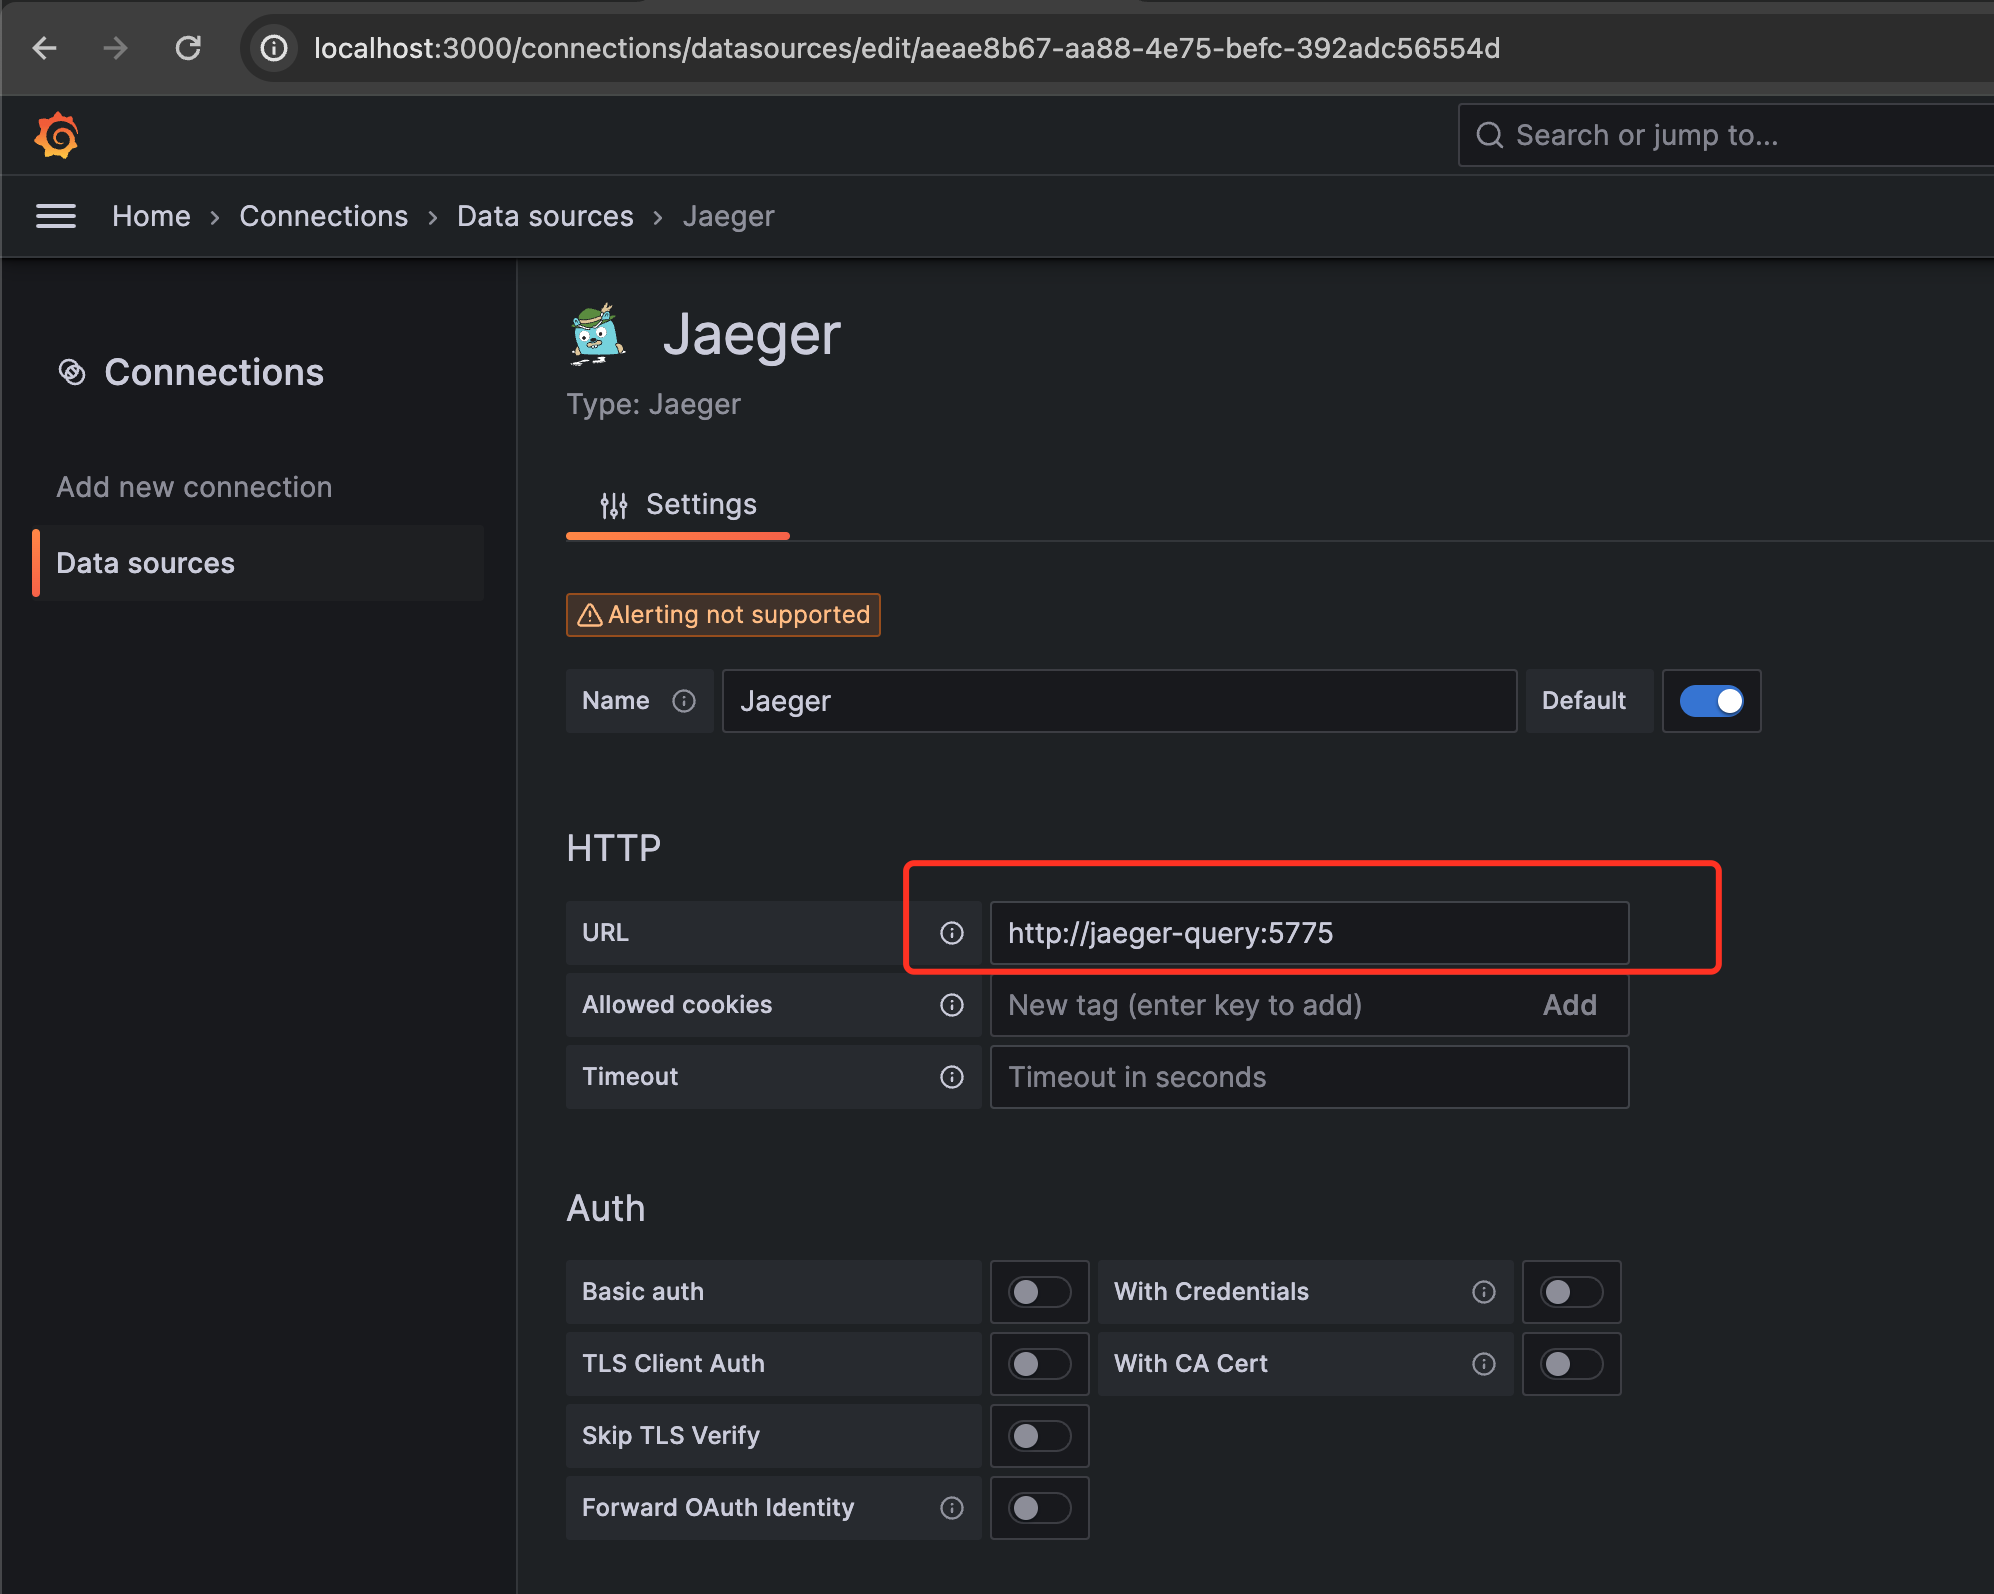
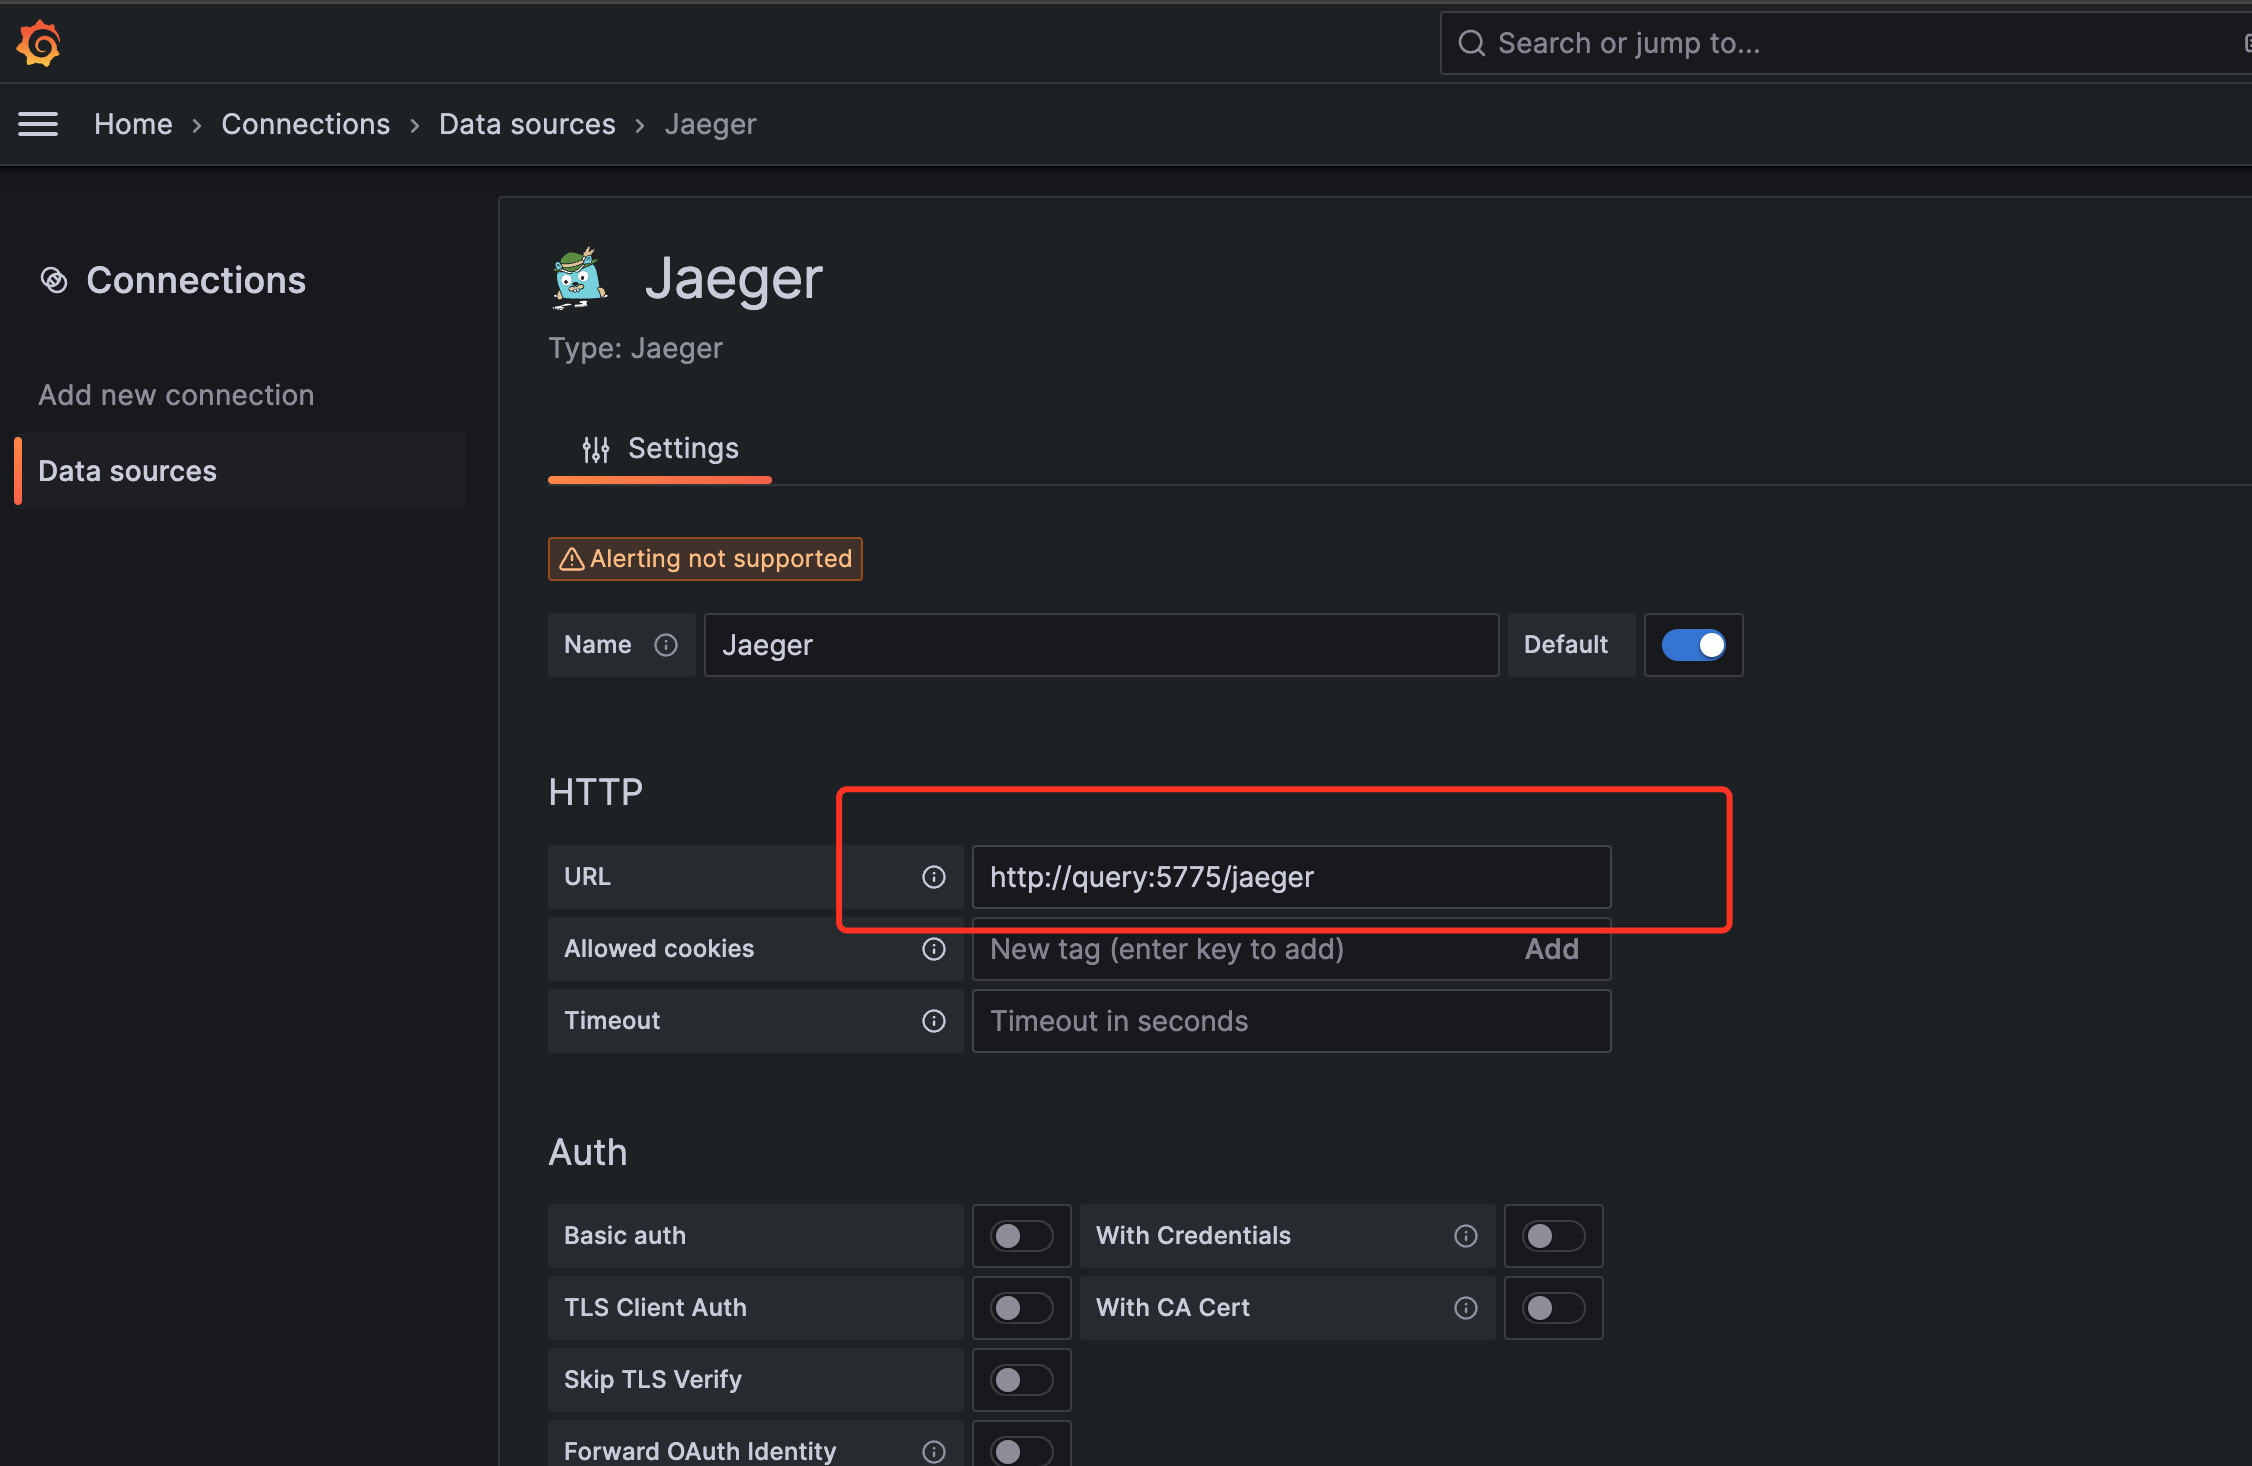
move jaeger api (#39)

diff --git a/src/Mocha.Query/Jaeger/Controllers/JaegerTraceController.cs b/src/Mocha.Query/Jaeger/Controllers/JaegerTraceController.cs
@@ -1,0 +1,123 @@
+using System.Net;
+using System.Text.RegularExpressions;
+using Microsoft.AspNetCore.Mvc;
+using Mocha.Core.Extensions;
+using Mocha.Core.Storage.Jaeger;
+using Mocha.Core.Storage.Jaeger.Trace;
+using Mocha.Query.Jaeger.DTOs;
+
+namespace Mocha.Query.Jaeger.Controllers;
+
+[Route("/jaeger/api")]
+public class JaegerTraceController(IJaegerSpanReader spanReader) : Controller
+{
+    [HttpGet("services")]
+    public async Task<JaegerResponse<IEnumerable<string>>> GetSeries()
+    {
+        return new(await spanReader.GetServicesAsync());
+    }
+
+    [HttpGet("services/{serviceName}/operations")]
+    public async Task<JaegerResponse<IEnumerable<string>>> GetOperations(string serviceName)
+    {
+        return new(await spanReader.GetOperationsAsync(serviceName));
+    }
+
+    [HttpGet("traces")]
+    public async Task<JaegerResponse<IEnumerable<JaegerTrace>>> FindTraces([FromQuery] FindTracesRequest request)
+    {
+        static ulong? ParseAsNanoseconds(string? input)
+        {
+            if (string.IsNullOrWhiteSpace(input))
+            {
+                return null;
+            }
+
+            var m = Regex.Match(input,
+                @"^((?<days>\d+)d)?((?<hours>\d+)h)?((?<minutes>\d+)m)?((?<seconds>\d+)s)?((?<milliseconds>\d+)ms)?((?<microseconds>\d+)μs)?$",
+                RegexOptions.ExplicitCapture
+                | RegexOptions.Compiled
+                | RegexOptions.CultureInvariant
+                | RegexOptions.RightToLeft);
+
+            if (!m.Success)
+            {
+                return null;
+            }
+
+            var days = m.Groups["days"].Success ? long.Parse(m.Groups["days"].Value) : 0;
+            var hours = m.Groups["hours"].Success ? long.Parse(m.Groups["hours"].Value) : 0;
+            var minutes = m.Groups["minutes"].Success ? long.Parse(m.Groups["minutes"].Value) : 0;
+            var seconds = m.Groups["seconds"].Success ? long.Parse(m.Groups["seconds"].Value) : 0;
+            var milliseconds = m.Groups["milliseconds"].Success ? long.Parse(m.Groups["milliseconds"].Value) : 0;
+            var microseconds = m.Groups["microseconds"].Success ? long.Parse(m.Groups["microseconds"].Value) : 0;
+
+            return
+                (ulong)(((days * 24 * 60 * 60 + hours * 60 * 60 + minutes * 60 + seconds) * 1000 + milliseconds)
+                    * 1000 + microseconds) * 1000;
+        }
+
+        var startTimeMin = request.Start * 1000;
+
+
+        var startTimeMax = request.End * 1000;
+
+        var lookBack = ParseAsNanoseconds(request.LookBack);
+
+        if (lookBack.HasValue)
+        {
+            var now = DateTimeOffset.Now.ToUnixTimeNanoseconds();
+            startTimeMin = now - lookBack.Value;
+            startTimeMax = now;
+        }
+
+        IEnumerable<JaegerTrace> traces;
+
+        if (request.TraceID?.Any() ?? false)
+        {
+            traces = await spanReader.FindTracesAsync(request.TraceID, startTimeMin, startTimeMax);
+        }
+        else
+        {
+            traces = await spanReader.FindTracesAsync(new JaegerTraceQueryParameters
+            {
+                ServiceName = request.Service,
+                OperationName = request.Operation,
+                Tags = (request.Tags ?? "{}").FromJson<Dictionary<string, object>>()!,
+                StartTimeMinUnixNano = startTimeMin,
+                StartTimeMaxUnixNano = startTimeMax,
+                DurationMinNanoseconds =
+                    string.IsNullOrWhiteSpace(request.MinDuration)
+                        ? null
+                        : ParseAsNanoseconds(request.MinDuration)!,
+                DurationMaxNanoseconds =
+                    string.IsNullOrWhiteSpace(request.MaxDuration)
+                        ? null
+                        : ParseAsNanoseconds(request.MaxDuration)!,
+                NumTraces = request.Limit
+            });
+        }
+
+        JaegerResponseError? error = null;
+        if (traces.Any() is false)
+        {
+            error = new JaegerResponseError { Code = (int)HttpStatusCode.NotFound, Message = "trace not found" };
+        }
+
+        return new JaegerResponse<IEnumerable<JaegerTrace>>(traces) { Error = error };
+    }
+
+    [HttpGet("traces/{traceID}")]
+    public async Task<JaegerResponse<IEnumerable<JaegerTrace>>> GetTrace(string traceID)
+    {
+        var traces = await spanReader.FindTracesAsync([traceID]);
+
+        JaegerResponseError? error = null;
+        if (traces.Any() is false)
+        {
+            error = new JaegerResponseError { Code = (int)HttpStatusCode.NotFound, Message = "trace not found" };
+        }
+
+        return new JaegerResponse<IEnumerable<JaegerTrace>>(traces) { Error = error };
+    }
+}

diff --git a/tests/Mocha.Storage.Tests/EntityFrameworkCore/EFJaegerSpanReaderTests.cs b/tests/Mocha.Storage.Tests/EntityFrameworkCore/EFJaegerSpanReaderTests.cs
@@ -171,6 +171,18 @@ public class EFJaegerSpanReaderTests : IDisposable
             }
         };
 
+        var efResourceAttributes = new List<EFResourceAttribute>
+        {
+            new()
+            {
+                TraceId = "TraceId1",
+                SpanId = "SpanId1",
+                Key = "service.name",
+                ValueType = EFAttributeValueType.StringValue,
+                Value = "ServiceName1"
+            }
+        };
+
         var efSpanAttributes = new List<EFSpanAttribute>
         {
             new()
@@ -286,6 +298,7 @@ public class EFJaegerSpanReaderTests : IDisposable
 
         await using var context = await _dbContextFactory.CreateDbContextAsync();
         await context.Spans.AddRangeAsync(efSpans);
+        await context.ResourceAttributes.AddRangeAsync(efResourceAttributes);
         await context.SpanAttributes.AddRangeAsync(efSpanAttributes);
         await context.SpanEvents.AddRangeAsync(efSpanEvents);
         await context.SpanEventAttributes.AddRangeAsync(efSpanEventAttributes);
@@ -310,7 +323,16 @@ public class EFJaegerSpanReaderTests : IDisposable
         };
 
         var traces = await _jaegerSpanReader.FindTracesAsync(queryParameters);
-        Assert.Single(traces);
+        var trace = traces.Single();
+        var span = trace.Spans.Single();
+        var process = trace.Processes.Single();
+
+        Assert.Equal("TraceId1", trace.TraceID);
+        Assert.Equal("SpanId1", span.SpanID);
+        Assert.Equal("SpanName1", span.OperationName);
+        Assert.Equal("ServiceName1", process.Value.ServiceName);
+        Assert.Equivalent(new JaegerTag { Key = "span.kind", Type = JaegerTagType.String, Value = "server" },
+            span.Tags.Single(t => t.Key == "span.kind"));
     }
 
     [Fact]

diff --git a/src/Mocha.Query/Program.cs b/src/Mocha.Query/Program.cs
@@ -2,7 +2,7 @@ using Microsoft.EntityFrameworkCore;
 using Mocha.Storage;
 using Mocha.Storage.EntityFrameworkCore;
 
-var builder = WebApplication.CreateBuilder(args);
+var builder = WebApplication.CreateSlimBuilder(args);
 
 // Add services to the container.
 // Learn more about configuring Swagger/OpenAPI at https://aka.ms/aspnetcore/swashbuckle

diff --git a/docs/quick-start/docker-compose/quick-start.en-US.md b/docs/quick-start/docker-compose/quick-start.en-US.md
@@ -32,7 +32,7 @@ After logging in, click the menu on the left, select Data Sources, and then clic
 Select Jaeger.
 ![](./asserts/add-jaeger-data-source-3.png)
 
-Configure the URL of the Jaeger data source as `http://jaeger-query:5775`.
+Configure the URL of the Jaeger data source as `http://query:5775/jaeger`.
 
 ![](./asserts/add-jaeger-data-source-4.png)
 

diff --git a/docs/quick-start/docker-compose/quick-start.zh-CN.md b/docs/quick-start/docker-compose/quick-start.zh-CN.md
@@ -32,7 +32,7 @@ docker-compose up -d
 选择 Jaeger。
 ![](./asserts/add-jaeger-data-source-3.png)
 
-配置 Jaeger 数据源的 URL 为 `http://jaeger-query:5775`。
+配置 Jaeger 数据源的 URL 为 `http://query:5775/jaeger`。
 ![](./asserts/add-jaeger-data-source-4.png)
 
 点击 Save & Test，如果显示如下信息，则说明配置成功。
